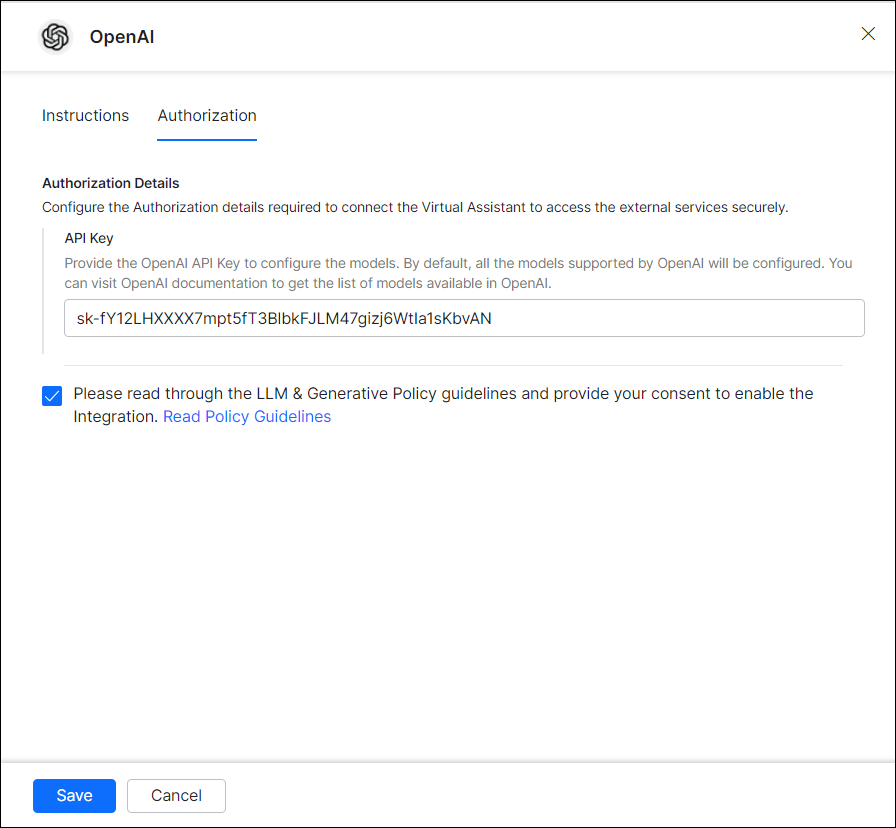
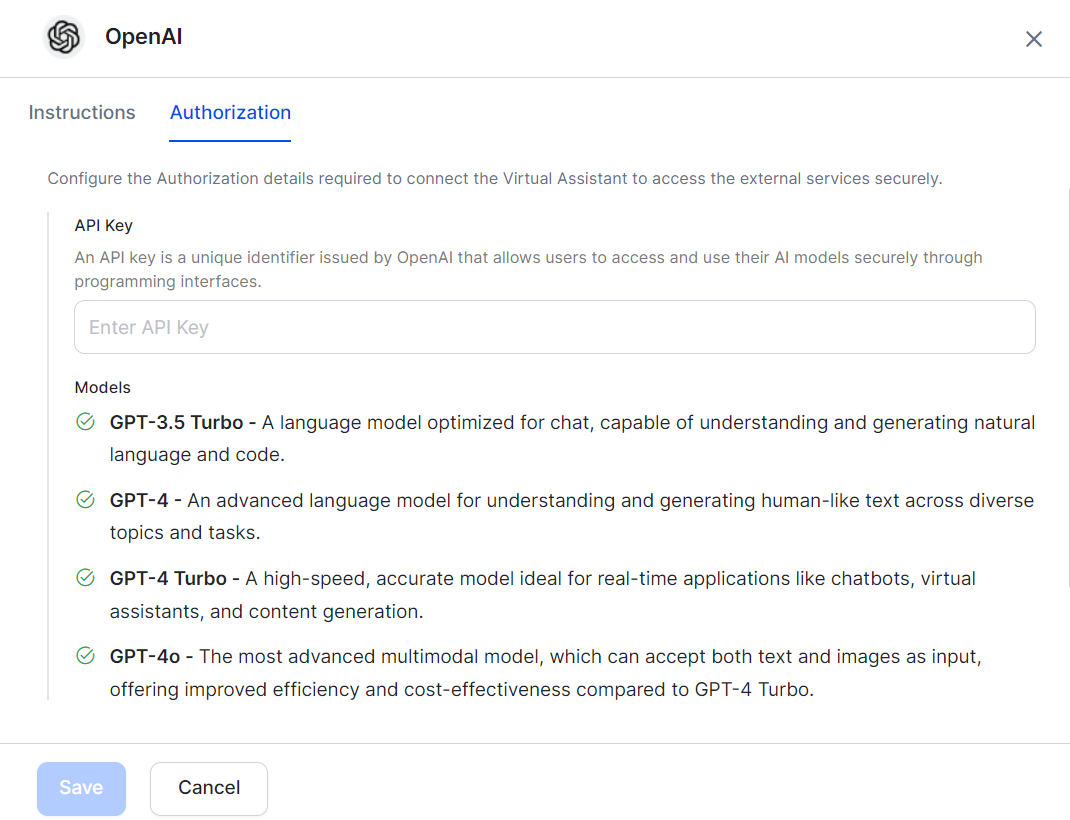
update

diff --git a/docs/xo/channels/add-instagram-channel.md b/docs/xo/channels/add-instagram-channel.md
@@ -1,0 +1,168 @@
+
+
+
+# Adding Instagram Channel
+
+You can set up the Instagram channel on the XO Platform to enable users to interact with your Virtual Assistant (VA) using their Instagram accounts.
+
+The setup process consists of the following steps:
+
+
+
+1. [Step 1: Create an App on Meta for Developers](#step-1-create-an-app-on-meta-for-developers)
+2. [Step 2: Associate the Facebook page with the Instagram Account](#step-2-associate-the-facebook-page-with-the-instagram-account)
+3. [Step 3: Link the Facebook page and the Instagram Account to the App](#step-3-link-the-facebook-page-and-the-instagram-account-to-the-app)
+4. [Step 4: Get Page Details](#step-4-get-page-details)
+5. [Step 5: Setup Webhook](#step-5-setup-webhook)
+6. [Step 6: Submit the App for Approval](#step-6-submit-the-app-for-approval)
+
+**Prerequisites**
+
+Before you begin, ensure you have:
+
+
+
+* A [Facebook page](https://www.facebook.com/help/282489752085908/?helpref=popular_topics) linked to your Instagram account.
+* Admin access to the Facebook page. (You can [create a new Page](https://en-gb.facebook.com/business/help/1199464373557428?id=418112142508425) from the Messenger Menu.)
+* The Facebook page is connected (via the Messenger API) to the app you create on Meta for Developers.
+
+
+## Step 1: Create an App on Meta for Developers
+
+The app serves as the connection point between the XO platform and Instagram.
+
+Steps:
+
+
+
+1. Log in to the [Meta for Developers](https://developers.facebook.com/) portal.
+2. Navigate to the **My Apps** > **Create App** and select Add **Use Case**.
+3. Under the “Looking for something else” section, choose **Other** and click **Next**. The Create an App Type page is displayed.
+4. Choose **Business** and click **Next**. The Create an App Details page is displayed.
+5. Enter the **App Name** and **App Contact Email**. In the **Business Portfolio** dropdown, select the **Business Manager account**.
+6. Click **Create App**. This might ask for your authentication. After authentication, the app is created, and the **Add Products to Your App** page is displayed.  
+    <img src="../images/insta4.png" alt="Instagram" title="" style="border: 1px solid gray; zoom:70%;">
+
+
+
+
+## Step 2: Associate the Facebook page with the Instagram Account
+
+The Facebook Page connects your Meta app to the Messenger API. This link enables message exchange through Instagram.
+
+Steps:
+
+
+
+1. Log in to the Facebook account. 
+2. Go to **Pages** and access the **Created Facebook Page**.
+3. On the left side menu, in the **More tools**, click **Meta Business Suite**.
+4. The Meta Business Suite page is displayed.
+5. Next to the page name, click **Connect Instagram** and follow the steps. You might be asked to log in to your Instagram account. Once connected, the Connect Instagram option turns to Edit Instagram Profile.
+
+
+## Step 3: Link the Facebook page and the Instagram Account to the App
+
+Connect your Facebook page to the app you created on Meta for Developers, and link your Instagram account to the same app. The link lets your app interact with your Facebook page and Instagram account.
+
+Steps:
+
+
+
+1. Go to the **Add Products** **to** **Your** **App** page and click **Messenger** > **Setup** in the Meta for Developers portal. 
+2. Choose the **Messenger** product and click **Set Up** to add the product.
+3. In the left navigation, go to **Products** > **Messenger** > **Instagram settings**.
+4. In the Access Tokens section, click **Add or Remove Pages**.
+5. You'll see a list of all the pages you admin.
+6. Select at least one **Facebook page** and click **Continue**. The Instagram account selection page is displayed.
+7. Select at least one **Instagram developer** account and click **Continue**. The Review Permissions page is displayed.
+8. Review the Permissions and click **Save**. The App Connected page is displayed.
+
+
+## Step 4: Get Page Details
+
+The app's configuration settings from the Meta for Developers portal are used in the Kore.ai Platform. 
+
+
+
+1. After linking a page with an app, generate an Access Token from the Token Generation section in the Meta for Developers portal.
+2. Click on the **Generate Token**. The Token Generated pop-up is displayed. 
+<img src="../images/insta1.png" alt="Instagram" title="" style="border: 1px solid gray; zoom:70%;">
+
+
+
+ 
+3. Select the I Understand checkbox. The token appears.
+    
+    !!! note
+
+       Copy the token as required while configuring the Messenger channel in the Kore.ai Platform.
+
+4. Click **Done**.
+5. Copy the following configuration settings from the Meta for Developers portal, as these are required in the Kore.ai Platform. 
+* **App Id**: Go to your **App** > **App Settings** > **Basic** > **App Id** 
+* **App Secret**: Go to your **App** > **App Settings** > **Basic** > **App Secret**. Click **Show** next to view the app secret and the secret code.
+* **Page ID**: Open the created Facebook page. Go to **About** > **Page Transparency** > **Page Id**.
+
+
+## Step 5: Setup Webhook
+
+Configure the XO platform's Webhook callback URL in the Meta app. This allows the XO platform to receive and respond to Instagram messages and interactions in real-time.
+
+
+
+1. In the Meta Developer portal, navigate to your **My App** > **Created App** > **Products** > **Messenger** > **Instagram Settings**. 
+2. In the Webhooks section, click **Add CallBack URL**. The Edit Callback URL pop-up prompts for the information required to configure the Webhook between your app and the Kore.ai XO Platform.
+3. In the XO Platform, select the assistant and go to **Channels & Flows** > **Channels** > **Digital** > **All** > **Instagram** > **Configurations tab**. Copy the “Webhook URL” and “Verify Token”.
+4. In the Edit Callback URL pop-up, paste the Webhook URL in the Callback URL field and paste the Verify Token into the Verify Token field. 
+<img src="../images/insta5.png" alt="Instagram" title="" style="border: 1px solid gray; zoom:70%;">
+
+
+5. Click **Verify and Save**.
+6. In the Webhooks section, click **Edit Subscriptions**. Select all the action fields and click **Save**. If the actions are not subscribed after clicking on the save, click the **Webhooks** > **Subscribe button** displayed against the associated **Facebook Page**. 
+<img src="../images/insta2.png" alt="Instagram" title="" style="border: 1px solid gray; zoom:70%;">
+
+
+
+
+7. In the XO Platform, select the VA and go to **Channels & Flows** > **Channels** > **Digital** > **All** > **Instagram** > **Configurations tab**.
+<img src="../images/insta3.png" alt="Instagram" title="" style="border: 1px solid gray; zoom:70%;">
+
+
+
+
+8. Enter **Page Access Token**, **Page Id**, **App Id**, and  **App Secret.**
+9. (Optional) Toggle the [IceBreaker](#icebreakers) and [PersistentMenu](#persistent-menu) if required.
+    1. If toggled, the sample JSON is displayed.
+    2. Edit the JSON as required.
+10. Select **Yes** to enable the channel.
+11. Click **Save**. The configuration saved message is displayed.
+
+
+## Step 6: Submit the App for Approval
+
+Submit the Meta Developer app for approval. See[ How to Submit Your App](https://developers.facebook.com/docs/messenger-platform/app-review#submission). Once approved, you can enable the Instagram channel for your VA. 
+
+!!! note
+
+    Add testers to test the Instagram channel before submitting the app for approval. To add, navigate to **App** > **App roles** > **Add People** > **Tester**.
+
+After enabling the channel and verifying all the configurations, you can publish the assistant for the new channel. Learn more about[ Publishing your Virtual Assistant](../deploy/publishing-bot.md).
+
+To learn more about working with Channels within the Kore.ai XO Platform, please see [Channel Enablement.](../channels/adding-channels-to-your-bot.md)
+
+
+## Instagram Chat Features
+
+
+### Icebreakers
+
+Instagram [Icebreakers](https://developers.facebook.com/docs/messenger-platform/instagram/features/ice-breakers) are pre-set quick-reply options in Direct Messages that help users start conversations with your chatbot and explore its features.
+
+
+### Persistent Menu
+
+Configure a static [menu](https://developers.facebook.com/docs/messenger-platform/instagram/features/persistent-menu) of options that users can access anytime during conversations with your virtual assistant. This menu provides quick access to key features and common queries, enhancing user interaction.
+
+
+

diff --git a/docs/xo/channels/adding-channels-to-your-bot.md b/docs/xo/channels/adding-channels-to-your-bot.md
@@ -71,9 +71,9 @@ Click the icon of the channel you want to add, and then configure the channel to
 
 ### Social Channels
 
-|[Facebook<br>Messenger](./add-facebook-messenger-channel.md)     <br> [![](./images/logo26-fb-messenger.png)](./add-facebook-messenger-channel.md)|[Line](./add-line-messenger-channel.md) <br>  <br>   [![](./images/logo27-line.png)](./add-line-messenger-channel.md)|[Skype](./add-skype-channel.md) <br> <br>    [![](./images/logo28-skype.png)](./add-skype-channel.md)|[Twitter](./add-twitter-channel.md)<br><br>[![](./images/logo30-twitter.png)](./add-twitter-channel.md)|[Telegram](./add-telegram-channel.md)   <br>  <br> [![](./images/logo29-telegram.png)](./add-telegram-channel.md) |
+|[Facebook<br>Messenger](./add-facebook-messenger-channel.md)     <br> [![](./images/logo26-fb-messenger.png)](./add-facebook-messenger-channel.md)|[Instagram](./add-instagram-channel.md)   <br>  <br> [![](./images/insta-logo.png)](./add-instagram-channel.md) |[Line](./add-line-messenger-channel.md) <br>  <br>   [![](./images/logo27-line.png)](./add-line-messenger-channel.md)|[Skype](./add-skype-channel.md) <br> <br>    [![](./images/logo28-skype.png)](./add-skype-channel.md)|[Twitter](./add-twitter-channel.md)<br><br>[![](./images/logo30-twitter.png)](./add-twitter-channel.md)|
 |:--------:|:----:|:----:|:----:|:----:|
-|[**WeChat**](./add-wechat-channel.md)   <br> <br>  [![](./images/logo31-we-chat.png)](./add-wechat-channel.md)|
+[Telegram](./add-telegram-channel.md)   <br>  <br> [![](./images/logo29-telegram.png)](./add-telegram-channel.md) |[**WeChat**](./add-wechat-channel.md)   <br> <br>  [![](./images/logo31-we-chat.png)](./add-wechat-channel.md)| 
 
 
 

diff --git a/docs/xo/generative-ai-tools/dynamic-conversations-features.md b/docs/xo/generative-ai-tools/dynamic-conversations-features.md
@@ -206,6 +206,7 @@ The following table displays the Dynamic Conversation features and the supported
     <td>❌</td>
     <td>✅*</td>
   </tr>
+  
   <tr>
     <td>OpenAI – GPT 3.5 Turbo</td>
     <td>✅</td>
@@ -229,6 +230,30 @@ The following table displays the Dynamic Conversation features and the supported
     <td>❌</td>
     <td>❌</td>
     <td>✅*</td>
+  </tr>
+    <tr>
+    <td>OpenAI – GPT 4 Turbo</td>
+    <td>❌</td>
+    <td>❌</td>
+    <td>✅</td>
+    <td>✅</td>
+    <td>✅</td>
+    <td>✅</td>
+    <td>❌</td>
+    <td>❌</td>
+    <td>✅</td>
+  </tr>
+    <tr>
+    <td>OpenAI – GPT 4o</td>
+    <td>❌</td>
+    <td>❌</td>
+    <td>✅</td>
+    <td>✅</td>
+    <td>✅</td>
+    <td>✅</td>
+    <td>❌</td>
+    <td>❌</td>
+    <td>✅</td>
   </tr>
   <tr>
     <td>Anthropic – Claude Instant</td>

diff --git a/docs/xo/generative-ai-tools/models-library.md b/docs/xo/generative-ai-tools/models-library.md
@@ -28,8 +28,9 @@ Steps to configure a pre-built LLM:
         2. On the **Authorization** tab, enter the details like **API Key** and the **User Sub Doman**. Toggle on the required **model** and enter **Deployment ID**.
         3. Read the **Policy Guidelines**, select the checkbox, and click **Save**.
     2. Steps to configure OpenAI:
-        1. Click **Configure Now** for OpenAI. 
-            ![alt_text](images/llm-integration(5).png  )
+        1. Click **Configure Now** for OpenAI.
+            <img src="../images/llm-integration(5).png" alt="Instagram" title="" style="border: 1px solid gray; zoom:70%;">
+          
         2. On the **Authorization** tab, enter the **API Key**.
         3. Read the **Policy Guidelines**, select the checkbox, and click **Save**.
     3. Steps to configure Anthropic:

diff --git a/docs/xo/generative-ai-tools/co-pilot-features.md b/docs/xo/generative-ai-tools/co-pilot-features.md
@@ -213,6 +213,28 @@ The following table displays the Co-Pilot features and the supported models.
     <td>✅</td>
     <td>✅</td>
   </tr>
+   <tr>
+    <td>OpenAI – GPT 4 Turbo</td>
+    <td>✅</td>
+    <td>✅</td>
+    <td>❌</td>
+    <td>✅</td>
+    <td>❌</td>
+    <td>✅</td>
+    <td>✅</td>
+    <td>✅</td>
+  </tr>
+   <tr>
+    <td>OpenAI – GPT 4o</td>
+    <td>✅</td>
+    <td>✅</td>
+    <td>❌</td>
+    <td>✅</td>
+    <td>❌</td>
+    <td>✅</td>
+    <td>✅</td>
+    <td>✅</td>
+  </tr>
   <tr>
     <td>Anthropic – Claude Instant</td>
     <td>✅</td>
